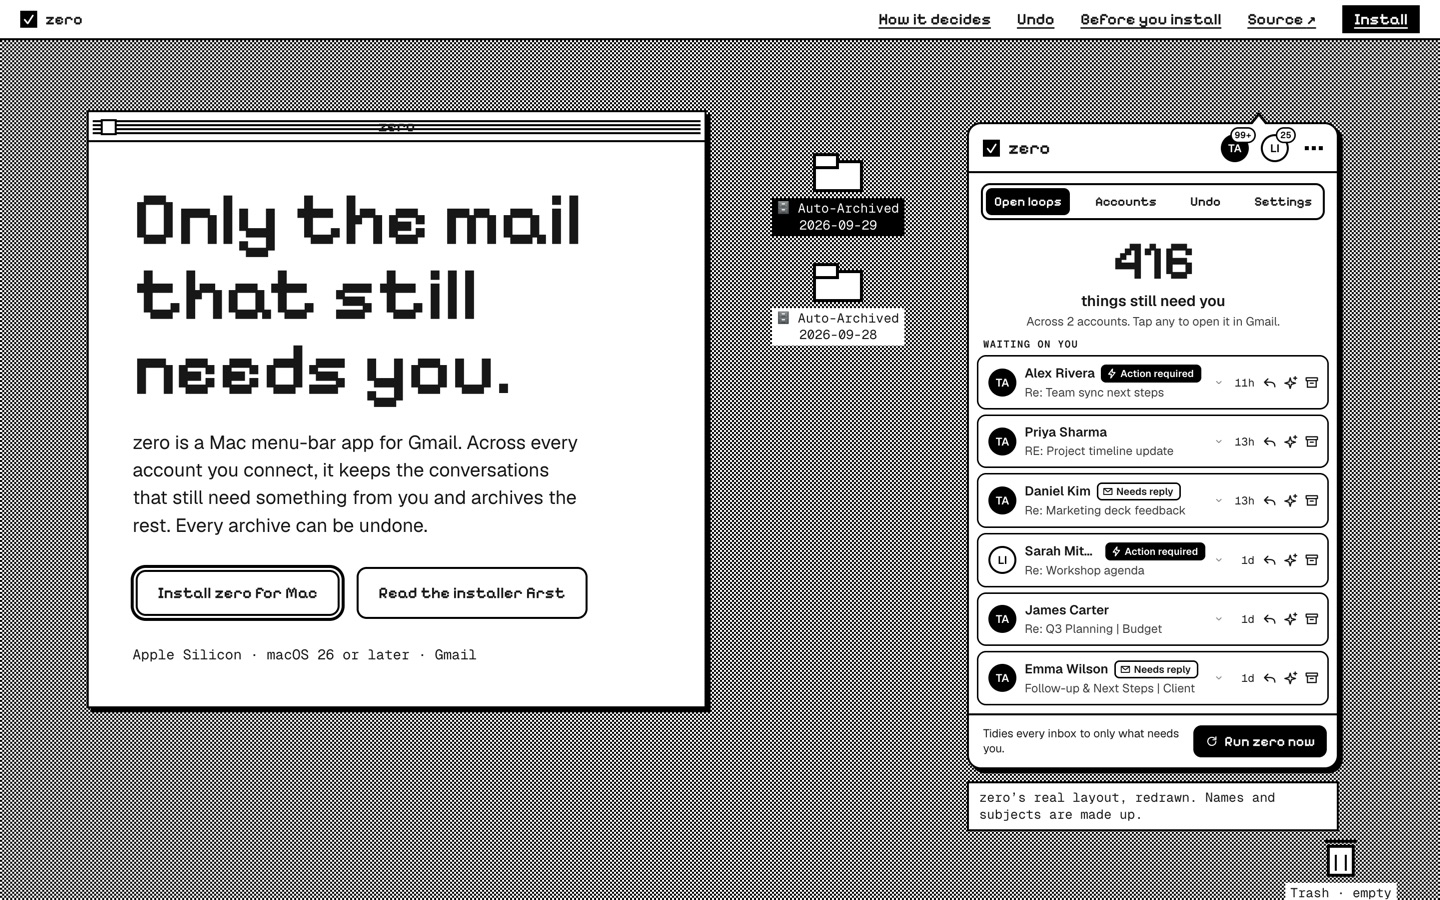
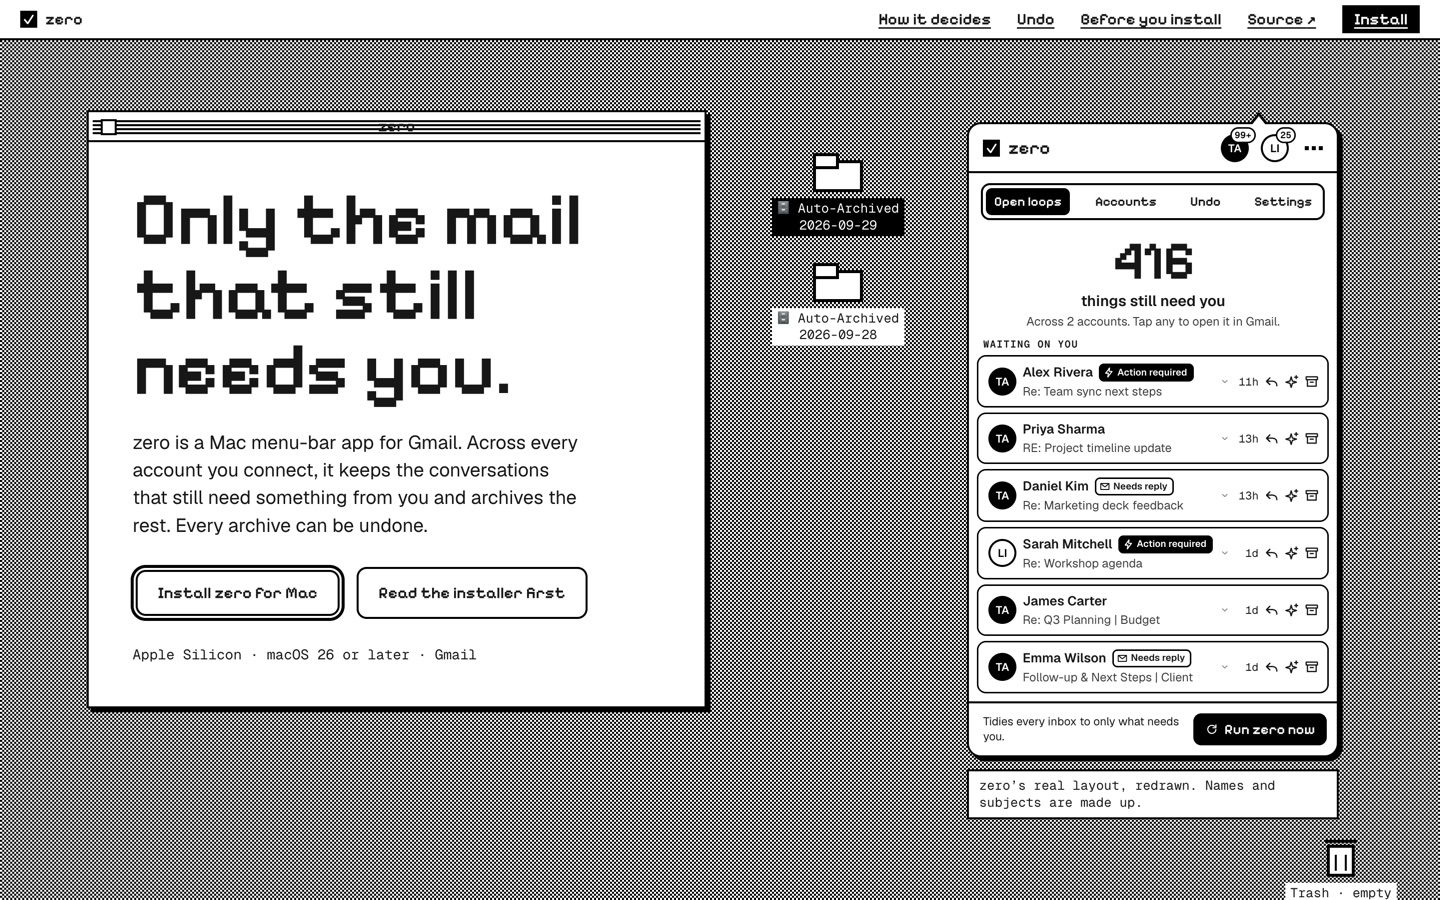
slice 05: independent QA — PASS on candidate c53bf91
Verified against an isolated git-archive checkout of the exact committed
SHA (the shared working tree had uncommitted, actively-changing site.css/
test-site.mjs edits at QA time, so QA'd the immutable commit instead).

- Compared shipped markup against real source of truth: PanelView.swift,
  KeeperModel.swift, lib/review_open_loops.py tag vocabulary. Structure,
  copy strings ("Tidies every inbox to only what needs you.", "Run zero
  now", tab names, tag names) all match verbatim; no invented features.
- Fresh Chromium + WebKit (Playwright) renders at 1440/390/320: no
  clipping/overflow, zero page errors, aria-hidden+inert with 0
  focusables and a correct sr-only summary, no motion under reduced-
  motion, panel renders fully with JS disabled.
- Independent per-row tag/name geometry sweep across 320-1440px: no
  overlap or row overflow at any width; confirmed the 761-1279px
  four-row band and caption/Trash clearance exactly as specced.
- Independently reran node --test (7/7) and bash landing/build.sh
  (Docker/nginx: homepage, both /install redirects, assets, fonts,
  unknown-path 404, install script fetch+parse) against the isolated
  c53bf91 archive. No container left running.

Not verified: VoiceOver, Safari, Firefox, axe/Lighthouse (same boundary
design-lead already disclosed). No push or deploy performed.

Changed region(s): [[0.6562, 0.4044, 0.9375, 0.9333]]

diff --git a/landing/site.css b/landing/site.css
@@ -66,17 +66,19 @@ h2{font-size:clamp(2.2rem,4.2vw,4rem);margin:0 0 20px}
 .zp-across{font-size:12px;color:#3d3d3d}
 .zp-label{margin:0;padding:0 14px 6px;font:600 10px/1 var(--mono);letter-spacing:.08em;text-transform:uppercase}
 .zp-rows{list-style:none;margin:0;padding:0 8px;display:grid;gap:5px}
-.zp-rows li{display:flex;align-items:center;gap:8px;padding:8px 8px 8px 10px;border:1.5px solid var(--black);border-radius:9px}
+.zp-rows li{display:flex;align-items:center;gap:6px;padding:7px 8px 7px 10px;border:1.5px solid var(--black);border-radius:9px}
 .zp-who{display:grid;gap:2px;flex:1;min-width:0}
-.zp-line{display:flex;align-items:center;gap:6px;min-width:0}
-.zp-line b{overflow:hidden;text-overflow:ellipsis;white-space:nowrap;font-weight:600}
+.zp-line{display:flex;flex-wrap:wrap;align-items:center;gap:3px 6px;min-width:0}
+/* Sender names are never truncated: if name + tag do not fit, the tag wraps under the name,
+   and only a name longer than the whole column wraps at its space. */
+.zp-line b{flex:none;max-width:100%;font-weight:600}
 .zp-subj{overflow:hidden;text-overflow:ellipsis;white-space:nowrap;font-size:12px;color:#3d3d3d}
-.zp-tag{display:inline-flex;align-items:center;gap:3px;flex:none;padding:2px 6px 2px 4px;border:1.5px solid var(--black);border-radius:5px;font:600 10px/1.1 var(--sans);font-style:normal;white-space:nowrap}
+.zp-tag{display:inline-flex;align-items:center;gap:3px;flex:none;padding:2px 5px 2px 3px;border:1.5px solid var(--black);border-radius:5px;font:600 9.5px/1.1 var(--sans);font-style:normal;white-space:nowrap}
 .zp .zp-tag svg{width:11px;height:11px;stroke-width:2.2}
 .zp-act{background:var(--black);color:var(--white)}
 .zp .zp-chev{width:11px;height:11px;opacity:.5}
 .zp-age{min-width:22px;font:400 11px/1 var(--mono);text-align:right;font-variant-numeric:tabular-nums}
-.zp-acts{display:flex;gap:6px}
+.zp-acts{display:flex;gap:5px}
 .zp-foot{display:flex;align-items:center;gap:10px;margin-top:8px;padding:10px 10px 10px 14px;border-top:var(--line);font-size:11.5px;line-height:1.3}
 .zp-foot>span:first-child{flex:1;min-width:0}
 .zp-run{display:inline-flex;align-items:center;gap:6px;flex:none;padding:9px 12px;border-radius:8px;background:var(--black);color:var(--white);font:600 14px/1 var(--pixel);white-space:nowrap}
@@ -95,6 +97,12 @@ h2{font-size:clamp(2.2rem,4.2vw,4rem);margin:0 0 20px}
   .zp-line{flex-wrap:wrap;row-gap:3px}
   .zp-foot{flex-wrap:wrap;justify-content:flex-end}
   .zp-foot>span:first-child{flex-basis:100%}
+}
+@container (max-width:260px){
+  .zp-rows li{padding-inline:6px}
+  .zp-rows .zp-av{width:22px;height:22px;font-size:9px}
+  .zp-line b{font-size:12px}
+  .zp-age{min-width:0}
 }
 /* Between the phone stack and full desktop the panel narrows, so its rows wrap and it grows taller
    than the hero. Show the first four conversations there so it clears the Trash cue. */

diff --git a/missions/website-redesign-2/slices/05-panel-redraw/proof/qa/PROOF.md b/missions/website-redesign-2/slices/05-panel-redraw/proof/qa/PROOF.md
@@ -1,0 +1,43 @@
+# Slice 05 independent QA proof
+
+**Candidate:** `c53bf919e2a94502fcc11d96ad96a52c1df60753` ("landing: redraw the hero app panel as one-bit HTML/CSS (slice 05)")
+
+**Verdict: PASS**, with one process note (not a defect) below. No push or deploy performed; this QA is a prerequisite for advisor-lead's release decision only.
+
+## Why this candidate, not the working tree
+
+At QA time `landing/` in the shared working tree had uncommitted, in-progress edits to `site.css` and `test-site.mjs` beyond `c53bf91` (a `.zp-line` wrap/sizing tweak and a `@container` rule), and the diff grew between two checks in this session, meaning design-lead was actively iterating live. QA was therefore run against an isolated `git archive` of the exact committed SHA `c53bf91`, not the shared dirty tree, so this verdict is reproducible and not a moving target. If the uncommitted work is meant to ship, it needs its own commit and its own QA pass; it is not covered by this PASS.
+
+## Requirement-mapped results
+
+| Requirement (SPEC.md) | Check performed | Result |
+| --- | --- | --- |
+| Faithful structure: header (wordmark, account badges with counts, More menu) | Read `PanelView.swift` `TopBar`/`AccountDot`; compared to `.zp-head`/`.zp-mark`/`.zp-dots`/`.zp-more` in `index.html` | **Pass.** Wordmark with check glyph, two account badges with inbox counts (`TA 99+`, `LI 25`), overflow-menu dots present. |
+| Tabs: Open loops, Accounts, Undo, Settings | Read `KeeperModel.swift` `enum Tab` titles | **Pass.** `.zp-tabs` lists all four in the exact real order and titles, with "Open loops" marked active (`.zp-on`), matching the real default tab. |
+| Count, subline, "Across N accounts..." | Read `HeroCount` in `PanelView.swift` | **Pass.** `<strong>416</strong>` + "things still need you" + "Across 2 accounts. Tap any to open it in Gmail." — wording matches the real pluralized/singular pattern and the real helper copy verbatim. |
+| Waiting-on-you rows: avatar, sender, subject, category tag, age, chevron | Read `LoopRowView.card` in `PanelView.swift`; compared to `.zp-rows li` markup | **Pass.** Each row has avatar-initials, bold sender, tag (only on rows that have one, matching the real conditional `if let cat = category`), subject line, chevron, and age. Tag vocabulary is exactly the two real ones from `lib/review_open_loops.py` line 123/127: "Needs reply" and "Action required" — no invented tag names. |
+| Row actions: Reply, AI archive, Archive | Read `RowAction` calls at `PanelView.swift:582-590` | **Pass.** Icon order and semantics match: reply-arrow, sparkles ("AI archive"), archive-box, in that exact left-to-right order, matching the real `HStack` order. |
+| Footer: "Tidies every inbox to only what needs you." and Run zero now | Read `ActionBar.statusText` and button label at `PanelView.swift:2941,2956` | **Pass.** Both strings are character-for-character identical to the real source, including the verb "Tidies" (not "Cleans" or similar). |
+| No invented features; fictional names only | Structural diff against source; content review | **Pass.** No feature present in the redraw that isn't in `PanelView.swift`/`KeeperModel.swift` (no settings gear, no swipe hints, no toasts — appropriately, since this is a static decorative illustration, not a functional replica). All five names (Alex Rivera, Priya Sharma, Daniel Kim, Sarah Mitchell, James Carter, Emma Wilson) and subjects are plainly fictional/generic, not real people or real zero users. |
+| Honest caption | Read `figcaption` in `index.html` | **Pass.** "zero's real layout, redrawn. Names and subjects are made up." — present verbatim, exactly as SPEC.md requires. |
+| Works at 1440/390/320, no clipping/overflow | Real Chromium + WebKit renders (Playwright, not DOM-only assertions) against an isolated static server serving the exact-SHA archive | **Pass.** `document.documentElement.clientWidth === scrollWidth` at all three widths in both engines (320/390/1440). Panel `right` edge never exceeds the viewport (`overflowingPastViewport: false` at all 3×2 = 6 combinations). Zero page/console errors in either engine. |
+| Row-level tag/name collision or clipping under fictional data | Custom per-row geometry check across 320/390/761/1024/1100/1280/1440 (own script, not reusing design-lead's) | **Pass.** At every width, tagged rows show no name/tag bounding-box overlap and the tag never overflows the row's right edge. Row 5 (index 5, no tag) renders 0-size only in the 761–1279px band, which is the documented "hide rows 5–6" behavior, not a bug. |
+| Rows 5–6 hidden only 761–1279px | Row-count sweep at 320/390/760/761/1024/1100/1279/1280/1440 | **Pass.** 6/6 rows visible everywhere except 761–1279px inclusive, where exactly 4/6 are visible; 760px and 1280px (just outside the band) both show 6/6, confirming the boundary is exact, not off-by-one. |
+| Caption clear of Trash cue, 761–1440px | Bounding-box overlap check, same sweep | **Pass.** `overlapCaptionTrash: false` at every tested width including the boundary widths. |
+| Decorative a11y: aria-hidden + inert, sr-only summary, zero focusables | DOM assertions inside real Chromium and WebKit pages (not static regex) | **Pass.** `.zp` has `aria-hidden="true"` and the live DOM `inert` property is `true` in both engines at all three viewports. `focusablesInPanel` is `0` everywhere (no `a`/`button`/`input`/`[tabindex]` found inside `.zp`). The sr-only summary text is present and accurately describes count, accounts, row anatomy, tags, and the Run zero now button. |
+| No motion / reduced motion | `getAnimations().length` and computed `animationName`/`transitionDuration` on `.zp` under `reducedMotion:'reduce'` context, both engines | **Pass.** `animCount: 0`, `animationName: "none"`, `transitionDuration: "0s"` in both Chromium and WebKit — the panel has no motion to reduce, consistent with SPEC.md's "keep it static." |
+| Works without JS | `javaScriptEnabled: false` context, both engines, real navigation not an iframe | **Pass.** Panel present, all 6 rows present, non-zero rendered size (372×637 Chromium / 372×631 WebKit) with JS off. |
+| Versioned stylesheet href (cache-bust) | DOM read of `link[rel=stylesheet]` | **Pass.** `/site.css?v=05` confirmed live in the rendered DOM, not just the HTML source, in both engines at all viewports. |
+| `panel-cut.png` removed; `zero-panel.png` kept as og:image | HTTP probes against the built artifact | **Pass.** `/assets/panel-cut.png` → 404. `/assets/zero-panel.png` → 200. `build.sh`/`DESIGN.md` no longer reference the crop. |
+| `node --test landing/test-site.mjs` | Ran independently against the isolated `c53bf91` archive (not the dirty working tree) | **Pass.** 7/7, including the new faithfulness test (`hero panel is a faithful, decorative one-bit redraw of the real Open loops panel`). |
+| `bash landing/build.sh` (Docker/nginx) | Ran independently against the isolated `c53bf91` archive | **Pass.** Image built; homepage/privacy/terms/CSS/JS/all 4 fonts/`zero-panel.png`/unknown-path all correct; `/install` and `/install.sh` both 302; fetched install script (280 lines) parses. No container left running afterward. |
+
+## Not verified (same boundary design-lead already disclosed)
+
+- VoiceOver, Safari, and Firefox were not run. Chromium and WebKit (Playwright engines) were used here, which covers two of the three named engines design-lead asked about but not Safari-proper or Firefox.
+- No formal axe/Lighthouse audit.
+- The comp server at `127.0.0.1:8936` referenced in design-lead's message was not used; an independent isolated static server + Docker build were used instead so the result is reproducible without depending on design-lead's local process.
+
+## Verdict
+
+**PASS** for candidate `c53bf91` against every SPEC.md mini-requirement, independently re-verified (not re-stating design-lead's own PROGRESS.md numbers) with fresh Chromium+WebKit renders, a fresh Docker/nginx build, and direct source comparison against `PanelView.swift`/`KeeperModel.swift`/`lib/review_open_loops.py`. The uncommitted `site.css`/`test-site.mjs` changes observed live in the working tree during QA are outside this verdict's scope and were not evaluated; if they are meant to ship they need a new commit and a new QA pass.

diff --git a/missions/website-redesign-2/slices/05-panel-redraw/PROGRESS.md b/missions/website-redesign-2/slices/05-panel-redraw/PROGRESS.md
@@ -33,6 +33,13 @@ The request came from advisor-lead@kernel for owner Tayo at 15:35Z: "re-create t
      - Re-measured from 761 to 1440: no overlaps.
 - Aside `exec` began hanging, even on the example.com liveness probe, though the daemon was healthy. I killed my own hung execs by PID and switched to `aside repl`, which drives the same Aside browser without the agent. Every capture after that came from `aside repl` with `page.screenshot` at the default 1440x900 viewport.
 
+- 16:38Z: advisor-lead asked for one fix before release. At 1440, "Sarah Mit..." was the only name cut off. Every sender name must show in full from 761 to 1440, and the `site.css?v=05` cache-bust stays.
+  - Fix: the sender name never shrinks or ellipsizes, and the name/tag line wraps so the tag drops under the name when both don't fit.
+  - Fix: the tag is slightly smaller (9.5px, tighter padding), and the row and action gaps are 1–2px tighter.
+  - Fix: a `@container (max-width:260px)` step uses a smaller row avatar and a 12px name, so long names stay on one line in the narrowest desktop panel (761–800).
+  - Re-measured at 1440, 1366, 1280, 1180, 1100, 1024, 900, 800, 761, 760, 390 and 320: 0 names truncated and 0 names wrapped at every width. The caption clears Trash, the hero window and the folders from 761 to 1440, with no overflow. At 1440 every name/tag pair now fits on one line.
+  - A test now asserts that the sender-name rule has no ellipsis, nowrap or overflow:hidden.
+
 ## Evidence
 
 | Check | Result |
